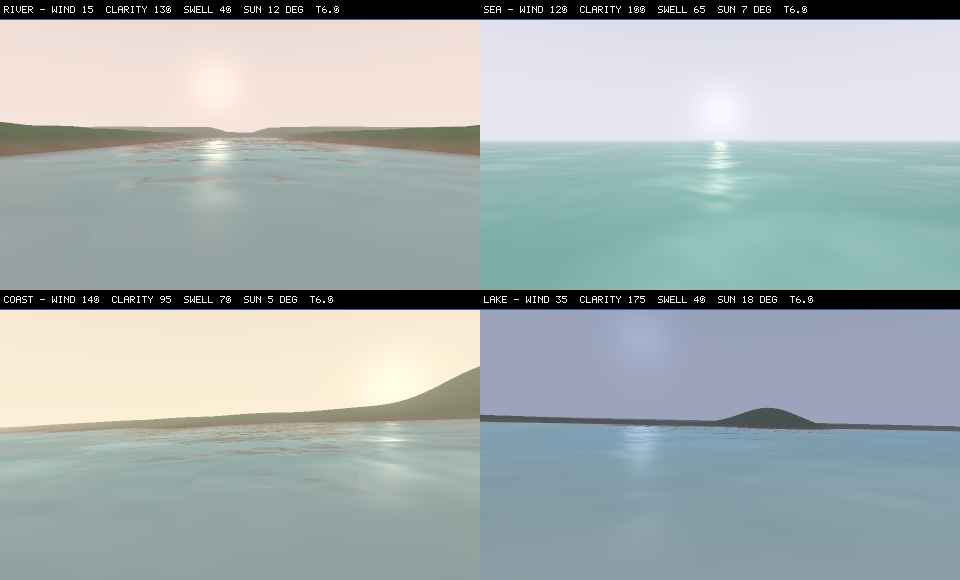
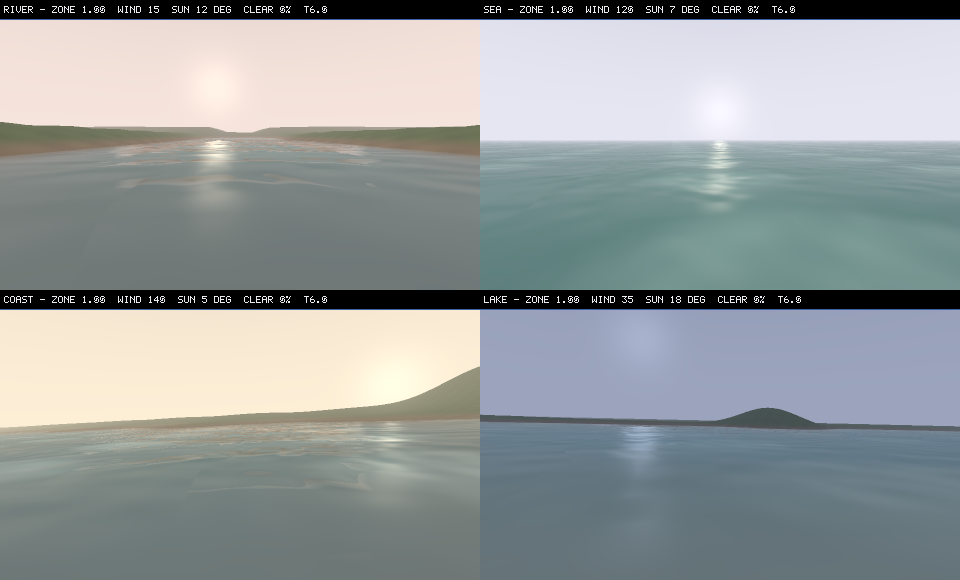
Spell the water tint as a neutral multiply, not a doubled one
`WaterColour` is documented - in `GraphicsEffects.ini`, in `docs/water-rendering.md` and in
the register comment itself - as a multiply whose identity is 0x808080. The CPU already uploads
those bytes divided by 128, so 0x808080 arrives in `c214` as 1.0 and there is no gain left to
apply; the volume rework multiplied it by two anyway, which made every authored colour a stop
hot and clipped the bright ones.

This is what PR #19's `Win32 Release` turned red on once the shader compiled: the complete-shader
sweep that #16 added feeds a captured 128 gray through `watereffect::Scope` with refraction at
full and waves, foam, depth, glint and reflections off, and requires 128 back with sRGB both off
and on. It got 255. The check is right and the shader was wrong, so the shader changed.

`tools/WaterPreview.cpp` carried the same doubling, which is how it survived a look review: every
preview frame the tuning was judged against was bright with it. Both copies now multiply once,
and the two sheets in `Screenshots/` are regenerated from the corrected mirror (their rendered
bodies were reproducible from this previewer pixel for pixel; the label rows in the committed
copies were stale, so those come back current as well). The sea panel's water band goes from
0.654 to 0.515 mean, which is the burn-out leaving.

`tools/WaterRegression.cpp` pins both copies to the one multiply - the shader text and its CPU
[…]

diff --git a/tools/WaterRegression.cpp b/tools/WaterRegression.cpp
@@ -304,6 +304,13 @@ int main() try
                 "sun glint is compensated for its own lobe width");
         Require(shader.find("celestialPath*controls.w*.0992") != std::string::npos,
                 "the glint's output gain does not double-count the normalization");
+        // The per-body tint is a multiply whose identity is 0x808080, because the CPU uploads
+        // the colour bytes divided by 128. Any gain applied to it in the shader is a gain applied
+        // to every zone in the game, and it is exactly what an already-bright scene cannot
+        // survive: the device sweep samples a captured 128 gray through the whole shader and
+        // requires 128 back, and a `*2.0` here turned that into 255.
+        Require(shader.find("waterBody*=waterTint.rgb;") != std::string::npos,
+                "the per-body water tint stays a neutral-at-0x808080 multiply");
         // The look normalizations and the sea state are only trustworthy while the shader and the
         // previewer keep deriving their numbers from the same place.
         Require(shader.find("seaFilter.Observe(tuning,seaWeather,dt,weatherEaseSeconds)") != std::string::npos
@@ -315,6 +322,11 @@ int main() try
         const std::string mirror = ReadAlongside("WaterPreview.cpp");
         Require(mirror.find("TargetSeaState(tuning, weather)") != std::string::npos,
                 "the game and the CPU preview ease the same sea state through one function");
+        // The look was tuned against this file, so a gain that exists in one copy and not the
+        // other is a frame nobody has looked at. Pin the mirror to the same neutral multiply.
+        Require(mirror.find("Mul(waterBody, tint)") != std::string::npos
+                && mirror.find("Mul(tint, 2.f)") == std::string::npos,
+                "the CPU mirror multiplies the same tint with no gain of its own");
         const std::string profiles = ReadAlongside("../EnvironmentProfiles.ini");
         {
             // The key's own length, and a section lookup that cannot be fooled by the file's header

diff --git a/WaterEffect.h b/WaterEffect.h
@@ -434,7 +434,12 @@ WaterOutput main(float4 color:COLOR0,float2 uv0:TEXCOORD0,float2 uv1:TEXCOORD1,f
     }
     // Per-body colour authoring multiplies rather than replaces, so the zone's own
     // painted water survives tinted instead of being overwritten: 0x808080 neutral.
-    waterBody*=waterTint.rgb*2.0;
+    // The CPU uploads the bytes divided by 128, so the register already carries 1.0 at
+    // neutral and there is no gain to apply here. Doubling it (as an earlier revision of
+    // this line did) puts every authored colour a stop high and clips the bright ones:
+    // `tools/WaterDeviceRegression.cpp` renders a captured 128 gray through the whole
+    // shader and requires 128 back, which is where that doubling showed up as 255.
+    waterBody*=waterTint.rgb;
     rgb=waterBody;
     // Direct reflection of actual local emitters on the same wave normal.
     // This does not depend on SSR finding an opaque flame in scene depth.

diff --git a/tools/WaterPreview.cpp b/tools/WaterPreview.cpp
@@ -733,7 +733,9 @@ int main(int argc, char** argv)
                         V3 body = Lerp(rgb, bottom, validDepth * Saturate(refractionStrength));
                         waterBody = Lerp(body, Add(deep, inScatter), Saturate(absorption * (.85f - .22f * fresnel)));
                     }
-                    waterBody = Mul(waterBody, Mul(tint, 2.f));
+                    // Same neutral-at-0x808080 contract as the shader: tint is uploaded as
+                    // bytes/128, so 1.0 is neutral and no gain belongs here.
+                    waterBody = Mul(waterBody, tint);
                     rgb = waterBody;
                     rgb = Lerp(rgb, reflected, Saturate(fresnel * (1.f - .5f * rough)
                         * (environmentStrength * .5f + ssrStrength * hit * 1.5f)));

diff --git a/docs/water-rendering.md b/docs/water-rendering.md
@@ -386,6 +386,15 @@ Four further defects were found in code:
   capture deadline even if its camera is unavailable; the next frame retries.
   Offscreen draws still do not consume the world's capture opportunity.
 
+- The per-body `WaterColour` multiply carried a `*2.0` gain. The tint is uploaded as the
+  colour bytes over 128, so the documented neutral `0x808080` already arrives as 1.0, and
+  the doubling put every authored colour a stop high and clipped the bright ones - the
+  complete-shader sweep read a captured 128 gray back as 255. `tools/WaterPreview.cpp`
+  carried the same gain, so the preview sheets the look was tuned against were tuned bright
+  with it; the fix lands on both copies, and the two sheets under `Screenshots/` were
+  regenerated from the corrected mirror. A portable pin in `tools/WaterRegression.cpp` now
+  holds the shader and its CPU mirror to the one neutral multiply.
+
 The device regression tests COM lifetime/eviction/retry deterministically
 before HAL setup, actual highlighted/unhighlighted water pixels, and the
 **complete production shader's** refraction with sRGB both off and on. For

diff --git a/changelog.d/20261014-water-tint-brightness.md b/changelog.d/20261014-water-tint-brightness.md
@@ -1,0 +1,9 @@
+---
+area: renderer
+type: fixed
+audience: players
+title: Zone water colours are no longer burnt out by a doubling in the shading
+---
+Water's per-zone colour was applied twice as strong as authored, so bright shallow water clipped to white and a zone's
+own painted tint was washed out. The colour now multiplies exactly as authored: `0x808080` is neutral, and murkier or
+deeper water keeps its hue instead of its brightness.
